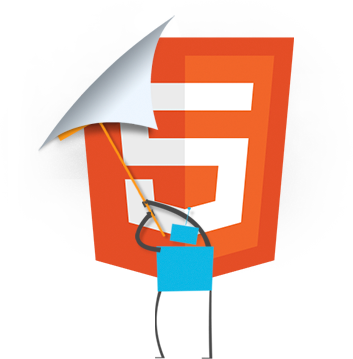
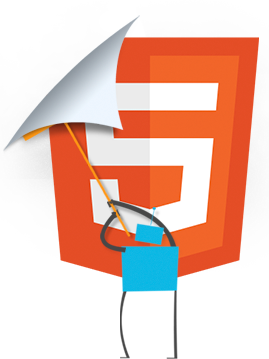
A few more slideshow fixes

diff --git a/src/sass/widget.scss b/src/sass/widget.scss
@@ -184,9 +184,9 @@
 
 .spotlight {
 	.main_container {
-		height: 350px;
+		height: 370px;
 		@include respond-to(phone, tablet-portrait) {
-			height: 420px;
+			height: 460px;
 		}
 	}
 	h1 {
@@ -238,14 +238,19 @@
 		position: absolute;
 		section {
 			padding: 20px 20px 10px;
-			width: calc(100% - 30px);
+			padding-left: 350px;
+			width: calc(100% - 360px);
 
 			background: transparent;
 
 			img {
-				float: left;
+				position: absolute;
+				top: 20px;
+				left: 10px;
 				@include respond-to(phone, tablet-portrait) {
 					float: none;
+					position: static;
+					margin-top: 10px;
 					max-width: 100%;
 					max-height: 200px;
 				}
@@ -263,6 +268,18 @@
 			@include respond-to(phone, tablet-portrait) {
 				padding: 5px;
 				text-align: center;
+				width: calc(100% - 30px);
+			}
+		}
+		section.left {
+			text-align: left;
+			padding-left: 10px;
+			@include respond-to(phone, tablet-portrait) {
+				text-align: center;
+			}
+			img {
+				left: inherit;
+				right: 10px;
 			}
 		}
 		section.crossword h1,

diff --git a/public/assets/spotlight/spotlight3.html b/public/assets/spotlight/spotlight3.html
@@ -1,4 +1,4 @@
-<section class="enigma">
+<section class="left enigma">
 	<h1>Enigma</h1>
 	<img src="themes/default/assets/img/spotlight/enigma.png" alt="Enigma being played by the Kogneato robot">
 
